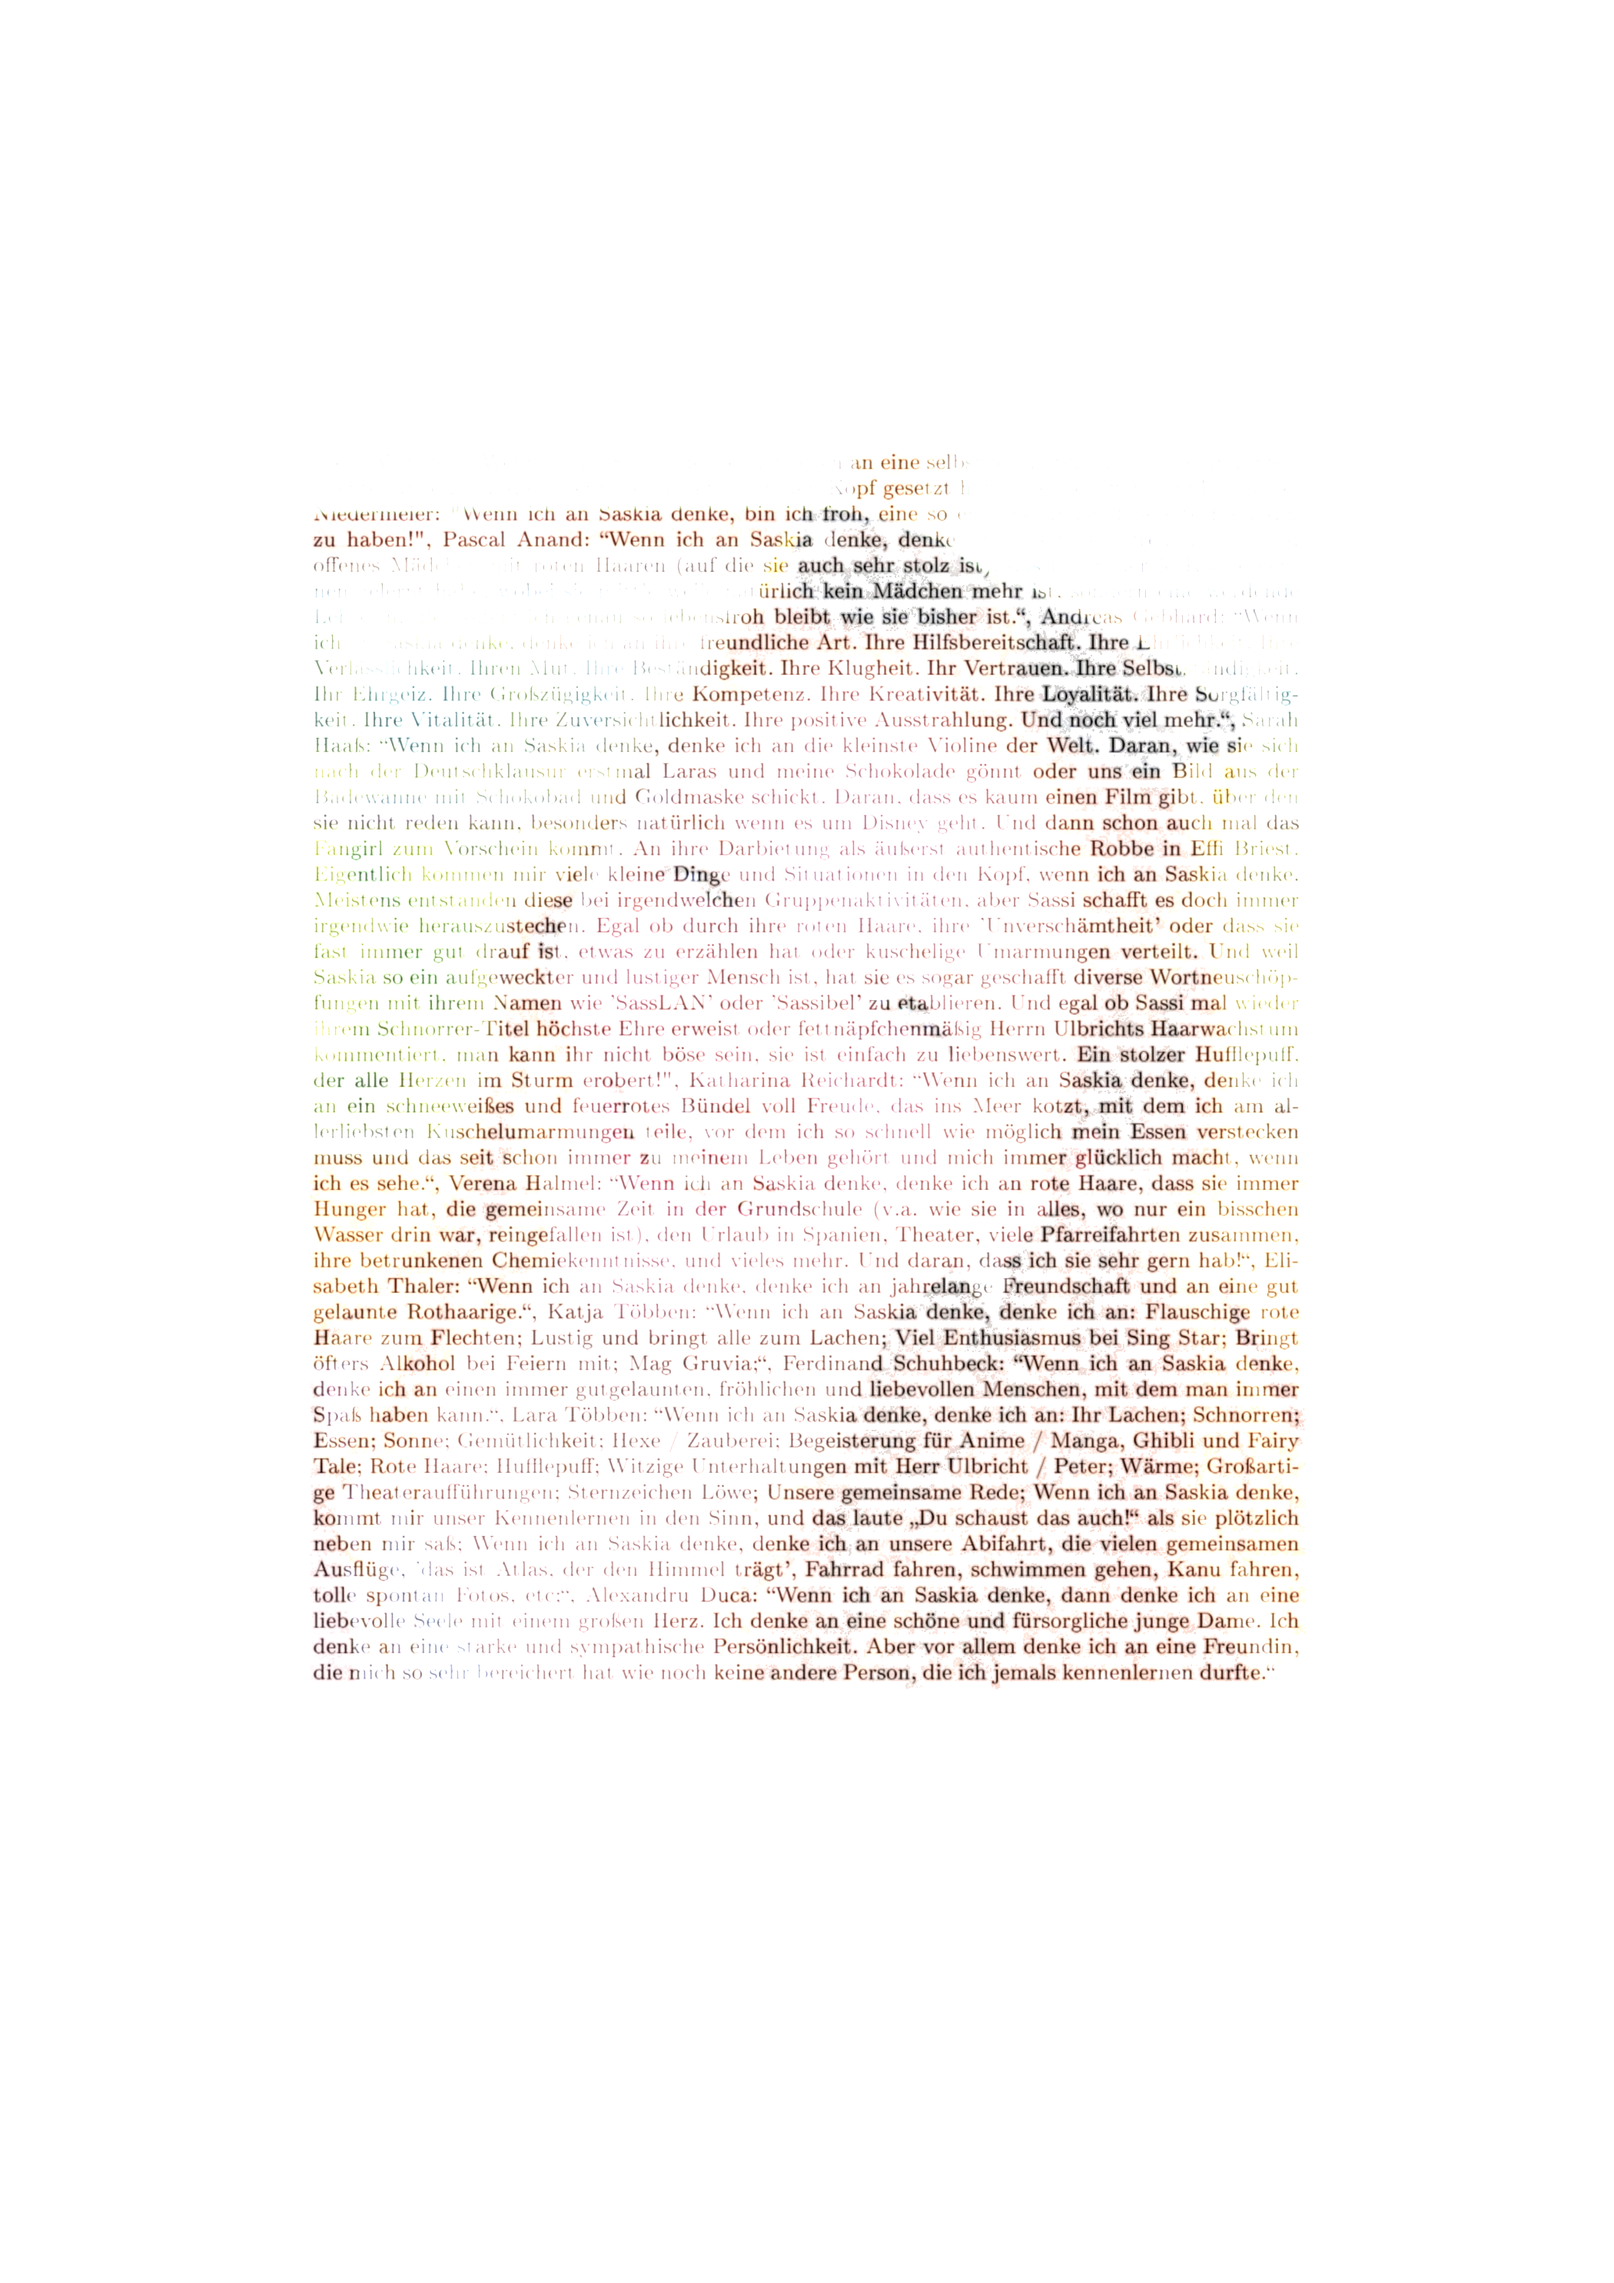
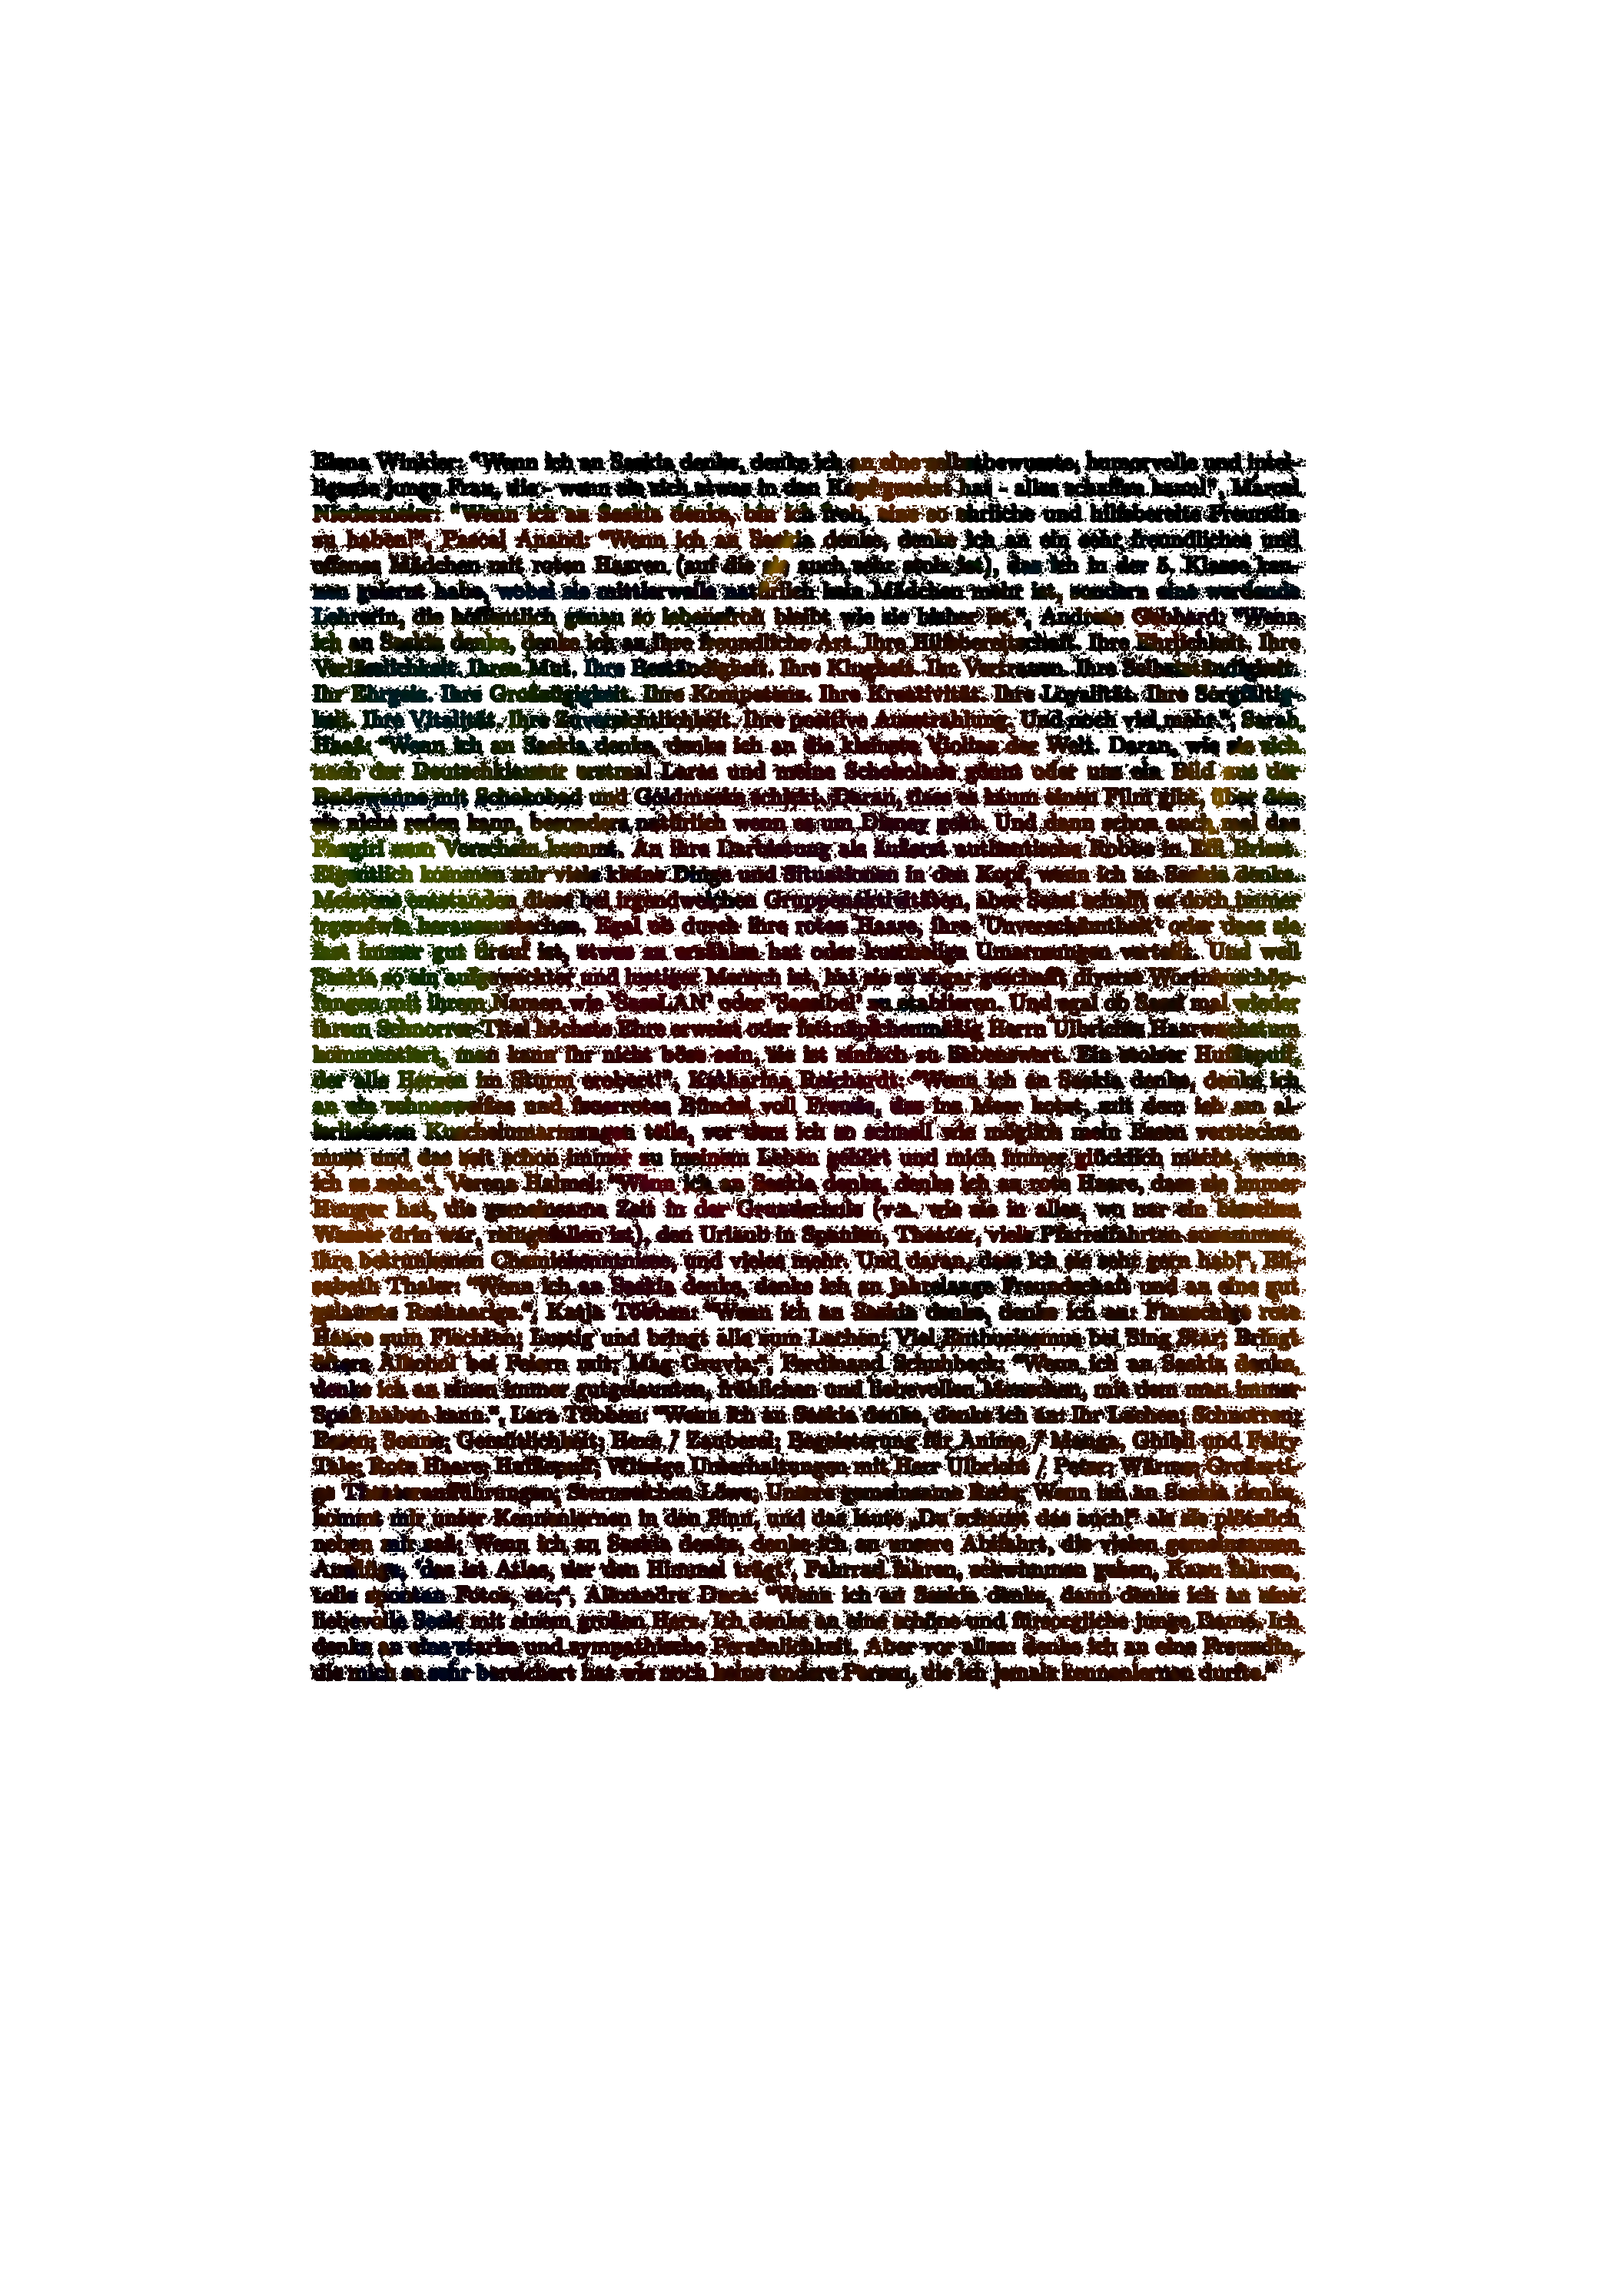
Filter

Changed region(s): [[0.1857, 0.1859, 0.8048, 0.7434]]

diff --git a/Saskia/Filter.py b/Saskia/Filter.py
@@ -24,7 +24,8 @@ for xx in range(x):
         pixR = (pixT[0]+pixH[0],pixT[1]+pixH[1],pixT[2]+pixH[2])
 
         if pixT[0] != 255:
-            pixR = (pixR[0]-verd,pixR[1]-verd,pixR[2]-verd)
+            mi = min(pixR[0],pixR[1],pixR[2])
+            pixR = (pixR[0]-mi,pixR[1]-mi,pixR[2]-mi)
 
         res.putpixel((xx,yy),pixR)
 
